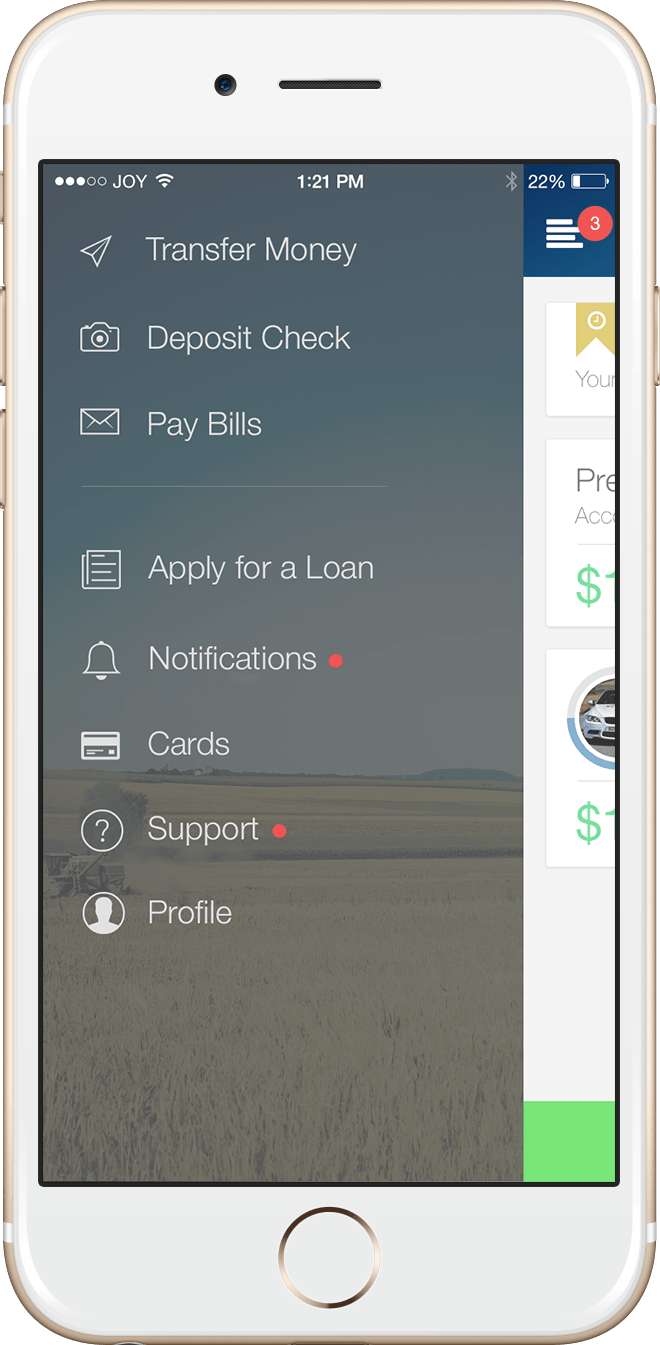
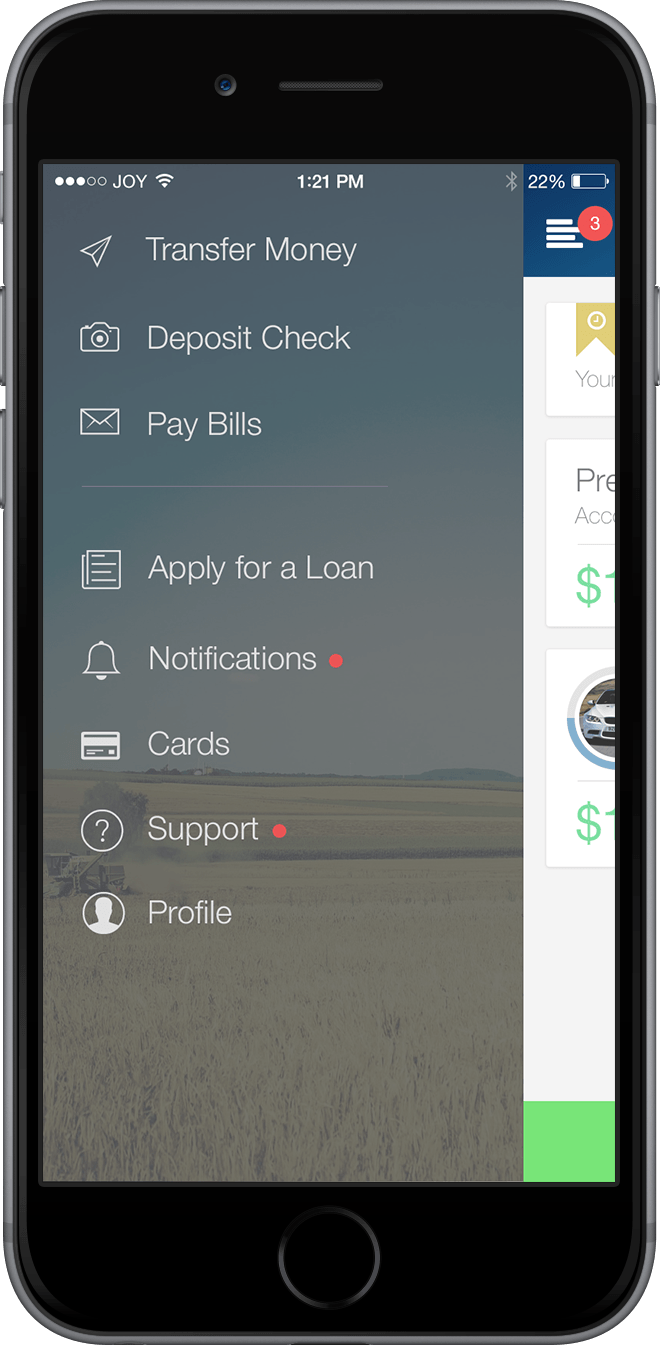
Added animations to button, fixed background color and movement, changed iphone imaget to match existing site #9

diff --git a/css/default.css b/css/default.css
@@ -5,12 +5,6 @@ a {
 
 body {
   font-family: "Source Sans Pro", sans-serif;
-  background-image:
-  linear-gradient(
-    rgba(90, 97, 124, 0.82),
-    rgba(90, 97, 124, 0.82)),
-    url(imgs/background.jpg);
-  background-size: cover;
 }
 
 button {
@@ -19,16 +13,40 @@ button {
   background-color: #5170DD ;
   color: white;
   font-size: 13px;
+  font-weight: 100;
   border-radius: 50px;
 }
 
-#contact {
-  position: absolute;
-  right: 40px;
-  top: 30px;
-  font-size: 14px;
-  font-weight: 200;
+button:hover {
+  transform: scale(1.1);
 }
+
+h1 {
+  font-size: 44px;
+  color: white;
+  font-weight: 200;
+  letter-spacing: 1px;
+}
+
+html {
+  background:
+  linear-gradient(
+    rgba(61, 70, 100, 0.86),
+    rgba(61, 70, 100, 0.86)), url(imgs/background.jpg)
+    no-repeat center center fixed;
+    -webkit-background-size: cover;
+    -moz-background-size: cover;
+    -o-background-size: cover;
+  background-size: cover;
+}
+
+  #contact {
+    position: absolute;
+    right: 40px;
+    top: 30px;
+    font-size: 14px;
+    font-weight: 200;
+  }
 
 #button {
   padding: 15px;
@@ -81,15 +99,11 @@ button {
 }
 
 #schedule {
-  font-size: 12px;
-  color: white;
+  font-size: 11px;
+  font-variant: small-caps;
+  color: #d4d4d8;
   font-weight: 200;
-}
-
-#tagline {
-  font-size: 42px;
-  color: white;
-  font-weight: 200;
+  letter-spacing: .35px;
 }
 
 #tel {

diff --git a/index.html b/index.html
@@ -19,7 +19,7 @@
         <img id="logo" src="css/imgs/logo-light.png" alt="BankJoy Logo">
       </div>
       <div id="message">
-        <h1 id="tagline">Mobile Banking for Credit Unions</h1>
+        <h1>Mobile Banking for Credit Unions</h1>
         <p id="schedule">SCHEDULE A DEMO TODAY AND DELIVER MODERN MOBILE BANKING TO YOUR MEMBERS BY DECEMBER 17TH</p>
       </div>
       <div id="buttondiv">
